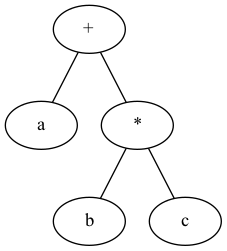
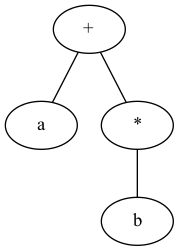
FIxed * operation in regex and tree

diff --git a/modules/components/NFA.py b/modules/components/NFA.py
@@ -26,103 +26,21 @@ class NFA(Automata):
             return this
 
         if node.value == '*':
+            leftFragment = this.subsetConstruction(node.left)
             initial = State(str(this.counter))
             final = State(str(this.counter + 1))
+
             this.counter += 1
 
             this.states.add(initial)
             this.states.add(final)
 
-            this.transitions.add(Transition(initial, final, Symbol('')))
+            this.transitions.add(Transition(initial, leftFragment.initial, Symbol('epsilon')))
+            this.transitions.add(Transition(leftFragment.final.peekLast(), final, Symbol('epsilon')))
             this.transitions.add(Transition(initial, final, Symbol('epsilon')))
             this.transitions.add(Transition(final, initial, Symbol('epsilon')))
 
-            this.symbols.add('epsilon')
-            this.final.add(final)
-
-            this.initial = initial
-
-            return this
-
-        if node.value == '+':
-            initial = State(str(this.counter))
-            final = State(str(this.counter + 1))
-            this.counter += 1
-
-            this.states.add(initial)
-            this.states.add(final)
-
-            this.transitions.add(Transition(initial, final, Symbol('epsilon')))
-
-            this.symbols.add('epsilon')
-            this.final.add(final)
-
-            this.initial = initial
-
-            return this
-        
-        if node.value == '|':
-            initial = State(str(this.counter))
-            final = State(str(this.counter + 1))
-            this.counter += 1
-
-            this.states.add(initial)
-            this.states.add(final)
-
-            this.transitions.add(Transition(initial, final, Symbol('epsilon')))
-
-            this.symbols.add('epsilon')
-            this.final.add(final)
-
-            this.initial = initial
-
-            return this
-        
-        if node.value == '.':
-            initial = State(str(this.counter))
-            final = State(str(this.counter + 1))
-            this.counter += 1
-
-            this.states.add(initial)
-            this.states.add(final)
-
-            this.transitions.add(Transition(initial, final, Symbol('epsilon')))
-
-            this.symbols.add('epsilon')
-            this.final.add(final)
-
-            this.initial = initial
-
-            return this
-        
-        if node.value == '?':
-            initial = State(str(this.counter))
-            final = State(str(this.counter + 1))
-            this.counter += 1
-
-            this.states.add(initial)
-            this.states.add(final)
-
-            this.transitions.add(Transition(initial, final, Symbol('epsilon')))
-
-            this.symbols.add('epsilon')
-            this.final.add(final)
-
-            this.initial = initial
-
-            return this
-        
-        if node.value == 'epsilon':
-            initial = State(str(this.counter))
-            final = State(str(this.counter + 1))
-            this.counter += 1
-
-            this.states.add(initial)
-            this.states.add(final)
-
-            this.transitions.add(Transition(initial, final, Symbol('epsilon')))
-
-            this.symbols.add('epsilon')
+            this.symbols.add('')
             this.final.add(final)
 
             this.initial = initial

diff --git a/modules/driver.py b/modules/driver.py
@@ -3,28 +3,18 @@ from modules.components.regexTree import *
 from modules.components.NFA import *
 
 def testRun():
-    print('\n----- Testing infixToPostfix -----')
+    print('\n----- Testing Infix to AFN -----')
+    testString = 'a+b*'
 
-    print('\nTest 1: a+b*c')
-    test = Regex('a+b*c').postfix
-    print('Expected: abc*+ --- Actual: ' + test)
-    assert test == 'abc*+'
+    print('\nTest 1: Infix to Postfix')
+    test = Regex(testString).postfix
+    print('Expected: ab*+ --- Actual: ' + test)
+    assert test == 'ab*+'
 
-    print('\nTest 2: a+b*c+')
-    test = Regex('a+b*c+').postfix
-    print('Expected: abc*+ --- Actual: ' + test)
-    assert test == 'abc*+'
+    print('\nTest 2: Regex Tree')
+    test = RegexTree(test)
+    test.printTree()
 
-    print('\nTest 3: (a+b)*c)')
-    test = Regex('(a+b)*c)').postfix
-    print('Expected: ab+c* --- Actual: ' + test)
-    assert test == 'ab+c*'
-
-    print('\n\n----- Testing tree building -----')
-    print('\nTest 1: abc*+')
-    test = RegexTree('abc*+').printTree()
-
-    print('\n\n----- Testing NFA -----')
-    print('\nTest 1: abc*+')
-    test = RegexTree('abc*+').tree
-    NFA(test).createImage()
+    print('\nTest 3: NFA')
+    # NFA(test.tree).createImage()
+    NFA(RegexTree('a*').tree).createImage()

diff --git a/modules/components/regexTree.py b/modules/components/regexTree.py
@@ -9,22 +9,24 @@ class RegexTree():
     def buildTree(this):
         stack = []
         for token in this.postfix:
-            if token == '*':
+            if token == '.':
                 right = stack.pop()
                 left = stack.pop()
-                stack.append(Node('*', left, right))
+                stack.append(Node('.', left, right))
             elif token == '+':
                 right = stack.pop()
                 left = stack.pop()
                 stack.append(Node('+', left, right))
-            elif token == '-':
+            elif token == '|':
                 right = stack.pop()
                 left = stack.pop()
-                stack.append(Node('-', left, right))
-            elif token == '/':
-                right = stack.pop()
+                stack.append(Node('|', left, right))
+            elif token == '?':
                 left = stack.pop()
-                stack.append(Node('/', left, right))
+                stack.append(Node('?', left))
+            elif token == '*':
+                left = stack.pop()
+                stack.append(Node('*', left))
             else:
                 stack.append(Node(token))
         return stack.pop()

diff --git a/modules/components/regex.py b/modules/components/regex.py
@@ -39,7 +39,8 @@ class Regex():
             0, 1, 2, 3, 4, 5, 6, 7, 8, 9, 'E'
         ]
 
-        symbols = ['*', '+', '?', '.', '|']
+        symbols = ['+', '.', '|']
+        unary = ['*', '?']
 
         openParen = 0
         closeParen = 0
@@ -49,7 +50,7 @@ class Regex():
             elif c == ')':
                 closeParen += 1
 
-            if c not in alphabet and c not in symbols and c != '(' and c != ')':
+            if c not in alphabet and c not in symbols and c not in unary and c != '(' and c != ')':
                 raise ValueError(
                     "Invalid character in infix expression: " + c)
 

diff --git a/modules/common/set.py b/modules/common/set.py
@@ -15,5 +15,8 @@ class Set():
     def difference(this, other):
         return Set([e for e in this.elements if e not in other.elements])
 
+    def peekLast(this):
+        return this.elements[-1]
+
     def __iter__(this):
         return iter(this.elements)
